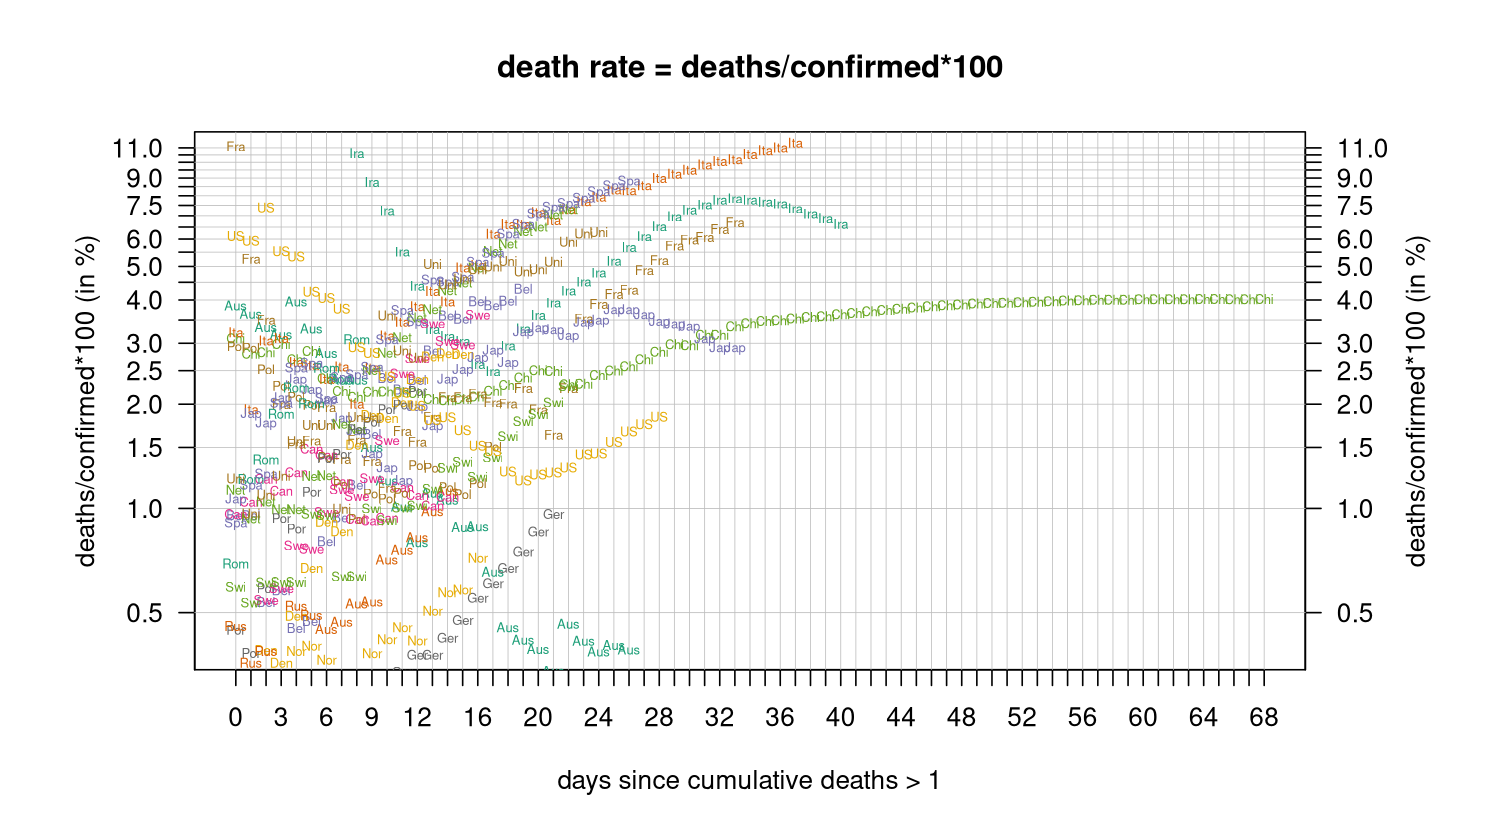
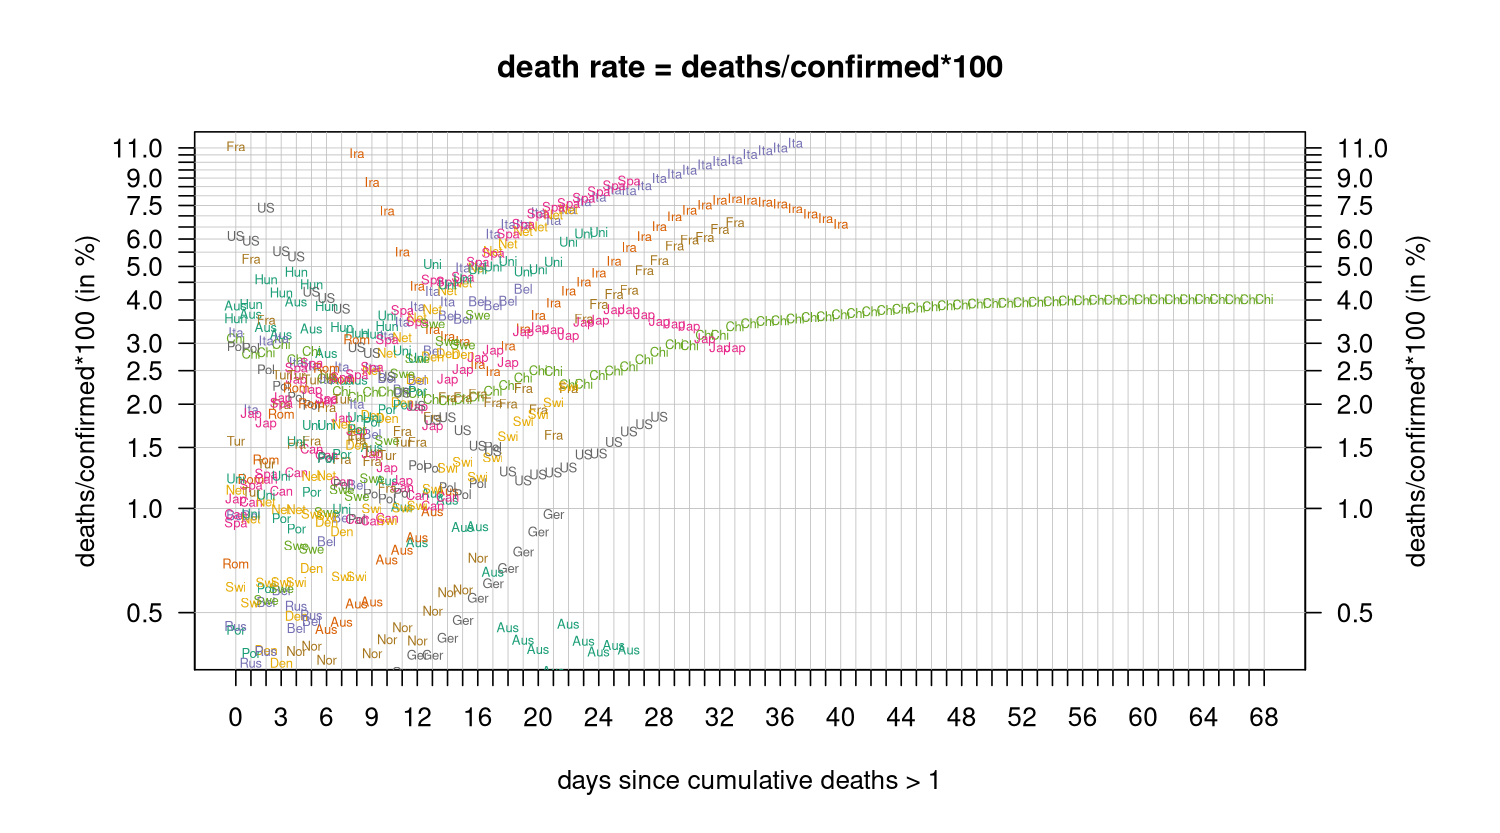
added turkey hungary

diff --git a/r_plots/README.md b/r_plots/README.md
@@ -17,6 +17,7 @@ country | cumulative number<br>of deaths doubles in | period of<br>estimation | 
 [Romania](#Romania) | 2.02 days | 2020-03-22 to<br>2020-03-30 (9 days) | 0.95 | < 1e-3 | 65 | 2109
 [Portugal](#Portugal) | 2.42 days | 2020-03-21 to<br>2020-03-30 (10 days) | 0.98 | < 1e-3 | 140 | 6408
 [Russia](#Russia) | 2.52 days | 2020-03-21 to<br>2020-03-30 (10 days) | 0.91 | < 1e-3 | 9 | 1836
+[Turkey](#Turkey) | 2.57 days | 2020-03-21 to<br>2020-03-30 (10 days) | 0.9 | < 1e-3 | 168 | 10827
 [Austria](#Austria) | 2.61 days | 2020-03-21 to<br>2020-03-30 (10 days) | 0.97 | < 1e-3 | 108 | 9618
 [US](#US) | 2.72 days | 2020-03-21 to<br>2020-03-30 (10 days) | 1 | < 1e-3 | 2978 | 161807
 [Belgium](#Belgium) | 2.84 days | 2020-03-21 to<br>2020-03-30 (10 days) | 0.99 | < 1e-3 | 513 | 11899
@@ -31,6 +32,7 @@ country | cumulative number<br>of deaths doubles in | period of<br>estimation | 
 [Norway](#Norway) | 4.07 days | 2020-03-21 to<br>2020-03-30 (10 days) | 0.98 | < 1e-3 | 32 | 4445
 [Switzerland](#Switzerland) | 4.08 days | 2020-03-21 to<br>2020-03-30 (10 days) | 0.99 | < 1e-3 | 359 | 15922
 [Canada](#Canada) | 4.14 days | 2020-03-21 to<br>2020-03-30 (10 days) | 0.97 | < 1e-3 | 80 | 7398
+[Hungary](#Hungary) | 5.75 days | 2020-03-21 to<br>2020-03-30 (10 days) | 0.88 | < 1e-3 | 15 | 447
 [Australia](#Australia) | 5.96 days | 2020-03-21 to<br>2020-03-30 (10 days) | 0.91 | < 1e-3 | 17 | 4361
 [Italy](#Italy) | 7.1 days | 2020-03-21 to<br>2020-03-30 (10 days) | 1 | < 1e-3 | 11591 | 101739
 [Iran](#Iran) | 10.76 days | 2020-03-21 to<br>2020-03-30 (10 days) | 0.99 | < 1e-3 | 2757 | 41495
@@ -139,6 +141,19 @@ country | cumulative number<br>of deaths doubles in | period of<br>estimation | 
 <img align="center" width="1000" src="plots/Germany/Germany_cumulative_confirmed_logy.png">
 <br>
 <img align="center" width="1000" src="plots/Germany/Germany_daily_confirmed_logy.png">
+<br>
+<br>
+
+# Hungary
+[top](#Select-country)
+
+<img align="center" width="1000" src="plots/Hungary/Hungary_cumulative_deaths_logy.png">
+<br>
+<img align="center" width="1000" src="plots/Hungary/Hungary_daily_deaths_logy.png">
+<br>
+<img align="center" width="1000" src="plots/Hungary/Hungary_cumulative_confirmed_logy.png">
+<br>
+<img align="center" width="1000" src="plots/Hungary/Hungary_daily_confirmed_logy.png">
 <br>
 <br>
 
@@ -312,6 +327,19 @@ national responses:
 <img align="center" width="1000" src="plots/Switzerland/Switzerland_cumulative_confirmed_logy.png">
 <br>
 <img align="center" width="1000" src="plots/Switzerland/Switzerland_daily_confirmed_logy.png">
+<br>
+<br>
+
+# Turkey
+[top](#Select-country)
+
+<img align="center" width="1000" src="plots/Turkey/Turkey_cumulative_deaths_logy.png">
+<br>
+<img align="center" width="1000" src="plots/Turkey/Turkey_daily_deaths_logy.png">
+<br>
+<img align="center" width="1000" src="plots/Turkey/Turkey_cumulative_confirmed_logy.png">
+<br>
+<img align="center" width="1000" src="plots/Turkey/Turkey_daily_confirmed_logy.png">
 <br>
 <br>
 
